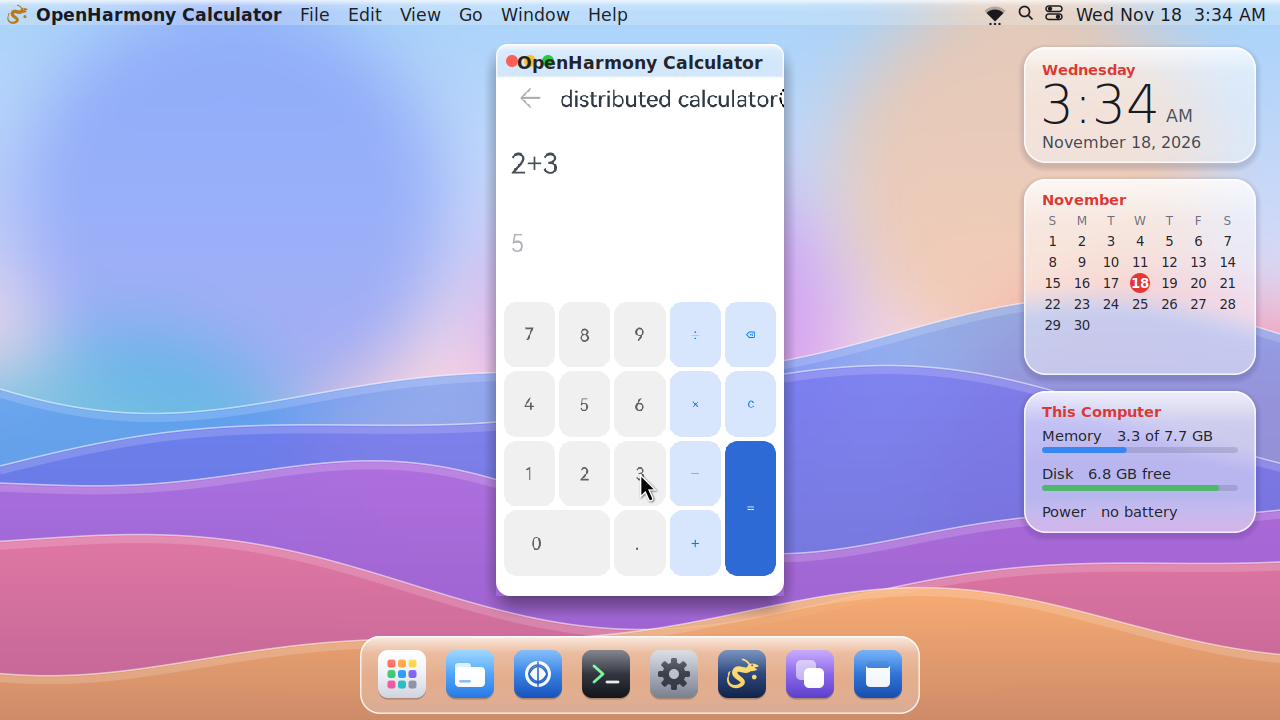
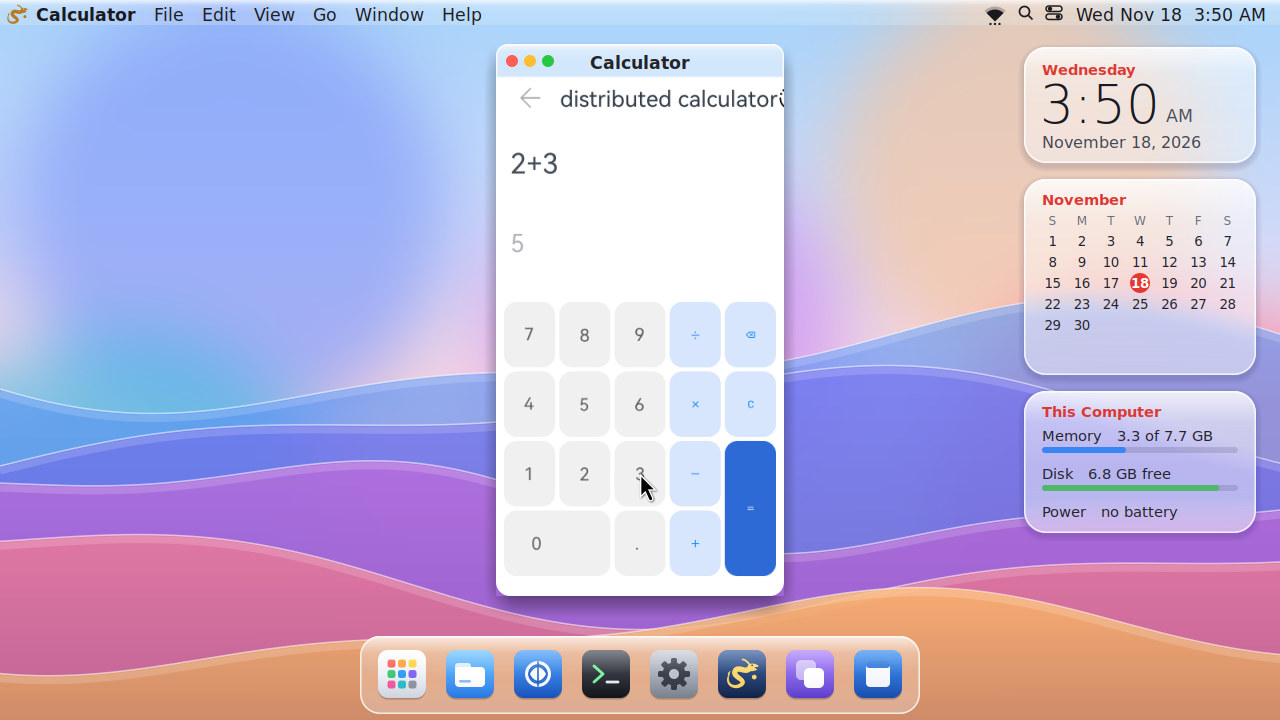
Record passing OpenHarmony desktop close and relaunch on KVM

diff --git a/docs/runtime-validation-handoff.md b/docs/runtime-validation-handoff.md
@@ -12,7 +12,7 @@
 - **Android 已补充正常时钟 KVM 验收**：CI 44208210089 在两个独立模拟器进程中通过自动配置、microG 普通 UID 验证和真实计算器输入；没有启用 TCG 或 icount。首次受控安装用时 158.018 秒，第二轮冷启动安装链路 77.499 秒，均不是桌面首帧或整机开机成绩。原始 APK 图标、桌面指针和独立窗口仍对应前述诊断 TCG 记录，KVM 作业没有验收宿主桌面窗口。
 - **microG 限定签名兼容原型和基础 RPC 已验证**：Services 与 Companion 已安装且已核对实际 base APK 的 SHA256。新增独立普通 UID 的 Android 验证应用：Common 服务 broker、getService 请求、成功回调和返回服务 Binder 均通过；原始系统的证书查询失败保留在 `api37-microg-probe.json`；限定兼容层下同一普通 UID 客户端的旧/新 GMS、Companion 证书查询及 Common RPC 均通过，见 `api37-microg-compatible-probe.json`。原签名 Companion 更新成功，异签名 APK 被拒绝且已安装 APK 哈希不变，见 `api37-microg-update-signatures.json`。自动启动接入与两轮正常时钟 KVM 冷启动已通过，见 `api37-kvm-managed-roundtrip.json` 和 CI 44208210089；完整 GMS API、FCM、账号、地图和认证均未验收。
 - **启动器路径回归已修复**：用 GIO 实际启动生成的桌面入口，验证空格、引号、`%`、反斜杠、美元符号和反引号路径；DEB/RPM 整套回归通过。完整 `test-mac` 仍仅有此前的两个 `nobody` 回退隔离断言失败，不能称整套通过。
-- **OpenHarmony SDK 计算器实测通过**。KVM 以正常时钟启动 OpenHarmony 6.1.0.31，使用正常锁屏 API 和来宾手势解锁，从系统图标打开计算器。点击得到 `2+3=5`，强制关闭后通过 Bundle Manager 重装原厂签名 HAP，重开并再次点击验证通过。该 HAP 原已随镜像提供。实验性的宿主 Wayland 窗口也已通过实际指针输入和结果验收。桌面安装器和通用 HAP 窗口仍待集成。见 `validation/openharmony/evidence/`，CI 44222505725 和 44230816932。
+- **OpenHarmony SDK 计算器实测通过**。KVM 以正常时钟启动 OpenHarmony 6.1.0.31，使用正常锁屏 API 和来宾手势解锁，从系统图标打开计算器。点击得到 `2+3=5`，强制关闭后通过 Bundle Manager 重装原厂签名 HAP，重开并再次点击验证通过。该 HAP 原已随镜像提供。实验性的宿主 Wayland 窗口也已通过实际指针输入、标题栏关闭、重开及再次计算验收。桌面安装器和通用 HAP 窗口仍待集成。见 `validation/openharmony/evidence/`，CI 44222505725 和 44232561716。
 - **Android 更新和数据回退已有实际验证，后续更新开发暂停**：CI 44212303251 验证同签名 v1→v2 保留 UID 和私有数据、异签名 v3 被系统拒绝、原生 `pm rollback-app` 恢复 v1 APK 与更新前私有数据。正式桌面命令保留同一图标记录，新增 8 项事务检查及前端安装记录测试；不是所有软件的统一滚动更新。按用户要求，当前优先完善应用运行。
 
 下方包含此前检查点，冲突处以本节为准。尚未重建 ISO、验证所有平台同时运行或任意商业应用。

diff --git a/validation/openharmony/README.md b/validation/openharmony/README.md
@@ -23,8 +23,9 @@ With `--desktop-pointer` and the test compositor built, acceptance also opens
 the calculator in a GTK Wayland window. The window displays the app region
 from QEMU and translates host pointer events to guest coordinates. The test
 compares host pixels and reads guest expression and result after each click.
-The [passing desktop run](https://github.com/yezicheng2011/bbb/actions/runs/44230816932)
-recorded the host clicking `2+3=5` in that window. The window bridge is specific
+The [passing desktop run](https://github.com/yezicheng2011/bbb/actions/runs/44232561716)
+recorded the host clicking `2+3=5` in that window, closing the window through
+its title bar, and repeating the calculation in a newly opened window. The window bridge is specific
 to this controlled fixture. Desktop HAP import, arbitrary apps, and commercial
 HarmonyOS compatibility still require separate implementation and testing.
 
